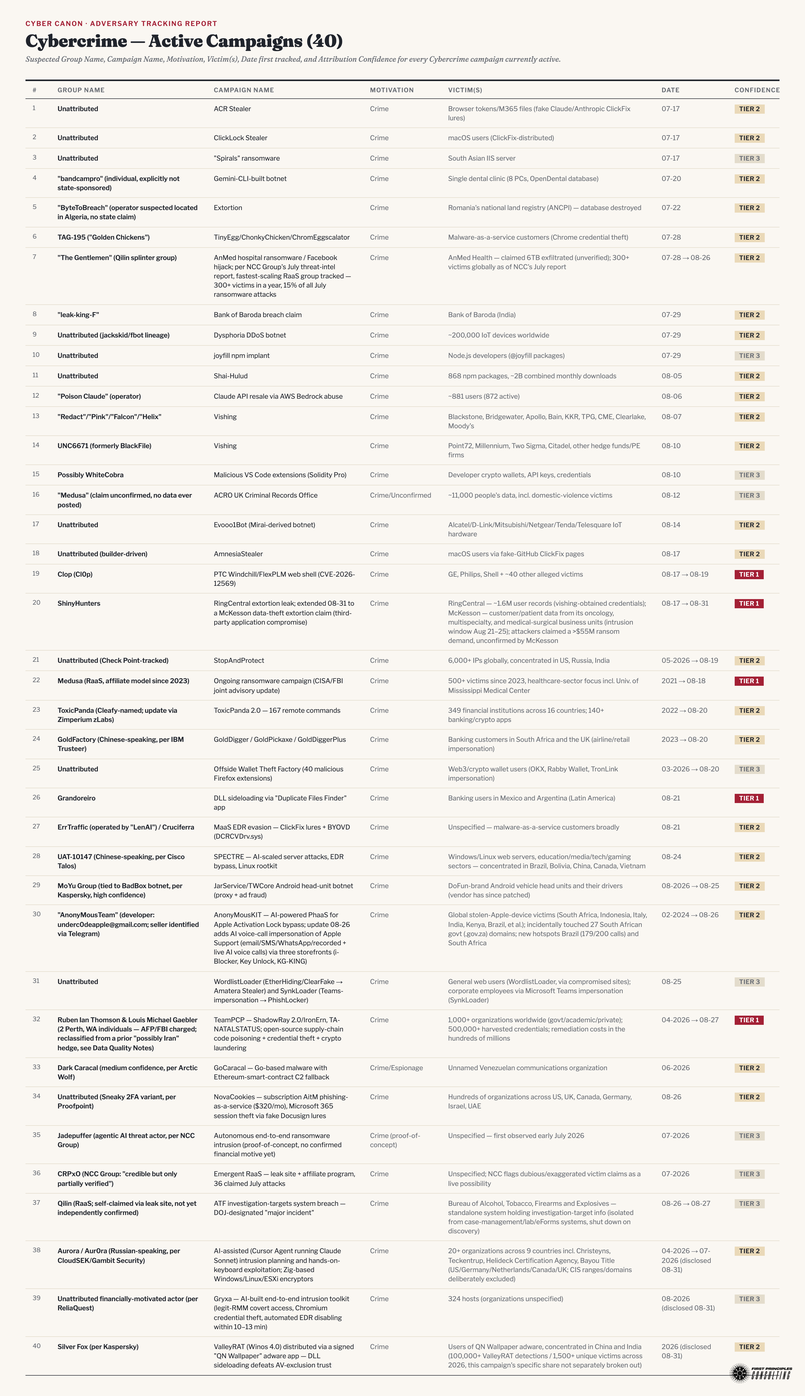
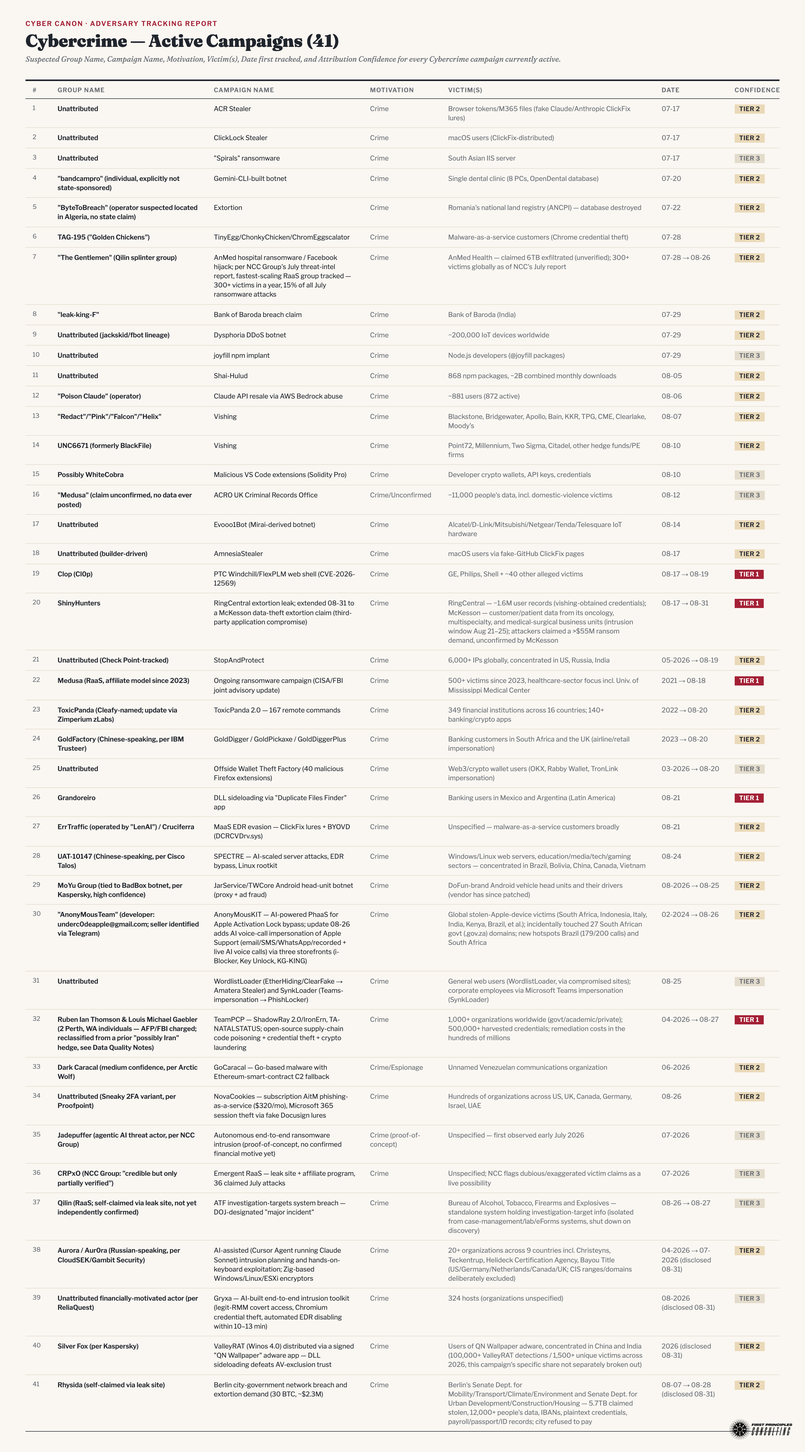
2026-09-01: Adversary Tracking Report — add Rhysida/Berlin row

diff --git a/reports/2026-09-01-adversary-tracking-report.md b/reports/2026-09-01-adversary-tracking-report.md
@@ -8,9 +8,9 @@
 
 ## At a Glance
 
-**123 campaigns tracked. 118 Active · 1 Dormant · 4 Concluded.**
+**124 campaigns tracked. 119 Active · 1 Dormant · 4 Concluded.**
 
-Active, by actor type: **Nation-State-Affiliated 53** (China 18 · Russia 11 · Iran 12 · North Korea 7 · Israel 4 · Ukraine 1) **· Cybercrime 40 · Hacktivism 4\* · Unclear 21**
+Active, by actor type: **Nation-State-Affiliated 53** (China 18 · Russia 11 · Iran 12 · North Korea 7 · Israel 4 · Ukraine 1) **· Cybercrime 41 · Hacktivism 4\* · Unclear 21**
 
 \*Row count, not group count — see note below. Two of Hacktivism's four rows are coalition aggregates (70+ pro-Iran groups, ~11 pro-Israel/allied groups), so the real scale of tracked hacktivist activity is 85+ groups, not 4.
 
@@ -70,15 +70,15 @@ Each subsection below is a single designed table image — Group Name, Campaign 
 
 **Sources:** 1. [Ukraine's Main Intelligence Directorate (HUR) — combined cyberattack + drone strikes on Wildberries](https://github.com/raceBannon99/The-Nexus/blob/main/reports/2026-08-24-daily-intelligence-report.md)
 
-### Non-State & Unclear (65)
+### Non-State & Unclear (66)
 
-#### Cybercrime (40)
+#### Cybercrime (41)
 
-*Rows 32–36 added 08-27: TeamPCP (reclassified in from the Iran table — see Data Quality Notes), GoCaracal/Dark Caracal, NovaCookies, Jadepuffer, and CRPxO. Rows 7 (The Gentlemen) and 30 (AnonyMousKIT) updated same day as continuations. Row 37 (Qilin/ATF) added 08-28. Rows 38–40 added 09-01: Aurora/Aur0ra, Gryxa, and Silver Fox/ValleyRAT. Row 20 (ShinyHunters) updated same day, extending the RingCentral row to a new McKesson extortion claim.*
+*Rows 32–36 added 08-27: TeamPCP (reclassified in from the Iran table — see Data Quality Notes), GoCaracal/Dark Caracal, NovaCookies, Jadepuffer, and CRPxO. Rows 7 (The Gentlemen) and 30 (AnonyMousKIT) updated same day as continuations. Row 37 (Qilin/ATF) added 08-28. Rows 38–41 added 09-01: Aurora/Aur0ra, Gryxa, Silver Fox/ValleyRAT, and Rhysida/Berlin. Row 20 (ShinyHunters) updated same day, extending the RingCentral row to a new McKesson extortion claim.*
 
 <img src="https://raw.githubusercontent.com/raceBannon99/The-Nexus/main/reports/images/2026-09-01-adversary-tracking-report/adversary-tracking-cybercrime-table.png">
 
-**Sources:** 1. [Unattributed — ACR Stealer](https://github.com/raceBannon99/The-Nexus/blob/main/reports/2026-07-17-daily-intelligence-report.md) · 2. [Unattributed — ClickLock Stealer](https://github.com/raceBannon99/The-Nexus/blob/main/reports/2026-07-17-daily-intelligence-report.md) · 3. [Unattributed — "Spirals" ransomware](https://github.com/raceBannon99/The-Nexus/blob/main/reports/2026-07-17-daily-intelligence-report.md) · 4. ["bandcampro" — Gemini-CLI-built botnet](https://github.com/raceBannon99/The-Nexus/blob/main/reports/2026-07-20-daily-intelligence-report.md) · 5. ["ByteToBreach" — extortion](https://github.com/raceBannon99/The-Nexus/blob/main/reports/2026-07-22-daily-intelligence-report.md) · 6. [TAG-195 ("Golden Chickens")](https://github.com/raceBannon99/The-Nexus/blob/main/reports/2026-07-28-daily-intelligence-report.md) · 7. ["The Gentlemen" — AnMed hospital ransomware](https://github.com/raceBannon99/The-Nexus/blob/main/reports/2026-07-28-daily-intelligence-report.md) · 8. ["leak-king-F" — Bank of Baroda breach claim](https://github.com/raceBannon99/The-Nexus/blob/main/reports/2026-07-29-daily-intelligence-report.md) · 9. [Unattributed — Dysphoria DDoS botnet](https://github.com/raceBannon99/The-Nexus/blob/main/reports/2026-07-29-daily-intelligence-report.md) · 10. [Unattributed — joyfill npm implant](https://github.com/raceBannon99/The-Nexus/blob/main/reports/2026-07-29-daily-intelligence-report.md) · 11. [Unattributed — Shai-Hulud](https://github.com/raceBannon99/The-Nexus/blob/main/reports/2026-08-05-daily-intelligence-report.md) · 12. ["Poison Claude" — Claude API resale via AWS Bedrock abuse](https://github.com/raceBannon99/The-Nexus/blob/main/reports/2026-08-06-daily-intelligence-report.md) · 13. ["Redact"/"Pink"/"Falcon"/"Helix" — vishing](https://github.com/raceBannon99/The-Nexus/blob/main/reports/2026-08-07-daily-intelligence-report.md) · 14. [UNC6671 (formerly BlackFile) — vishing](https://github.com/raceBannon99/The-Nexus/blob/main/reports/2026-08-10-daily-intelligence-report.md) · 15. [Possibly WhiteCobra — malicious VS Code extensions](https://github.com/raceBannon99/The-Nexus/blob/main/reports/2026-08-10-daily-intelligence-report.md) · 16. ["Medusa" (unconfirmed) — ACRO UK Criminal Records Office](https://github.com/raceBannon99/The-Nexus/blob/main/reports/2026-08-12-daily-intelligence-report.md) · 17. [Unattributed — Evooo1Bot](https://github.com/raceBannon99/The-Nexus/blob/main/reports/2026-08-14-daily-intelligence-report.md) · 18. [Unattributed (builder-driven) — AmnesiaStealer](https://github.com/raceBannon99/The-Nexus/blob/main/reports/2026-08-17-daily-intelligence-report.md) · 19. [Clop (Cl0p) — PTC Windchill/FlexPLM web shell](https://github.com/raceBannon99/The-Nexus/blob/main/reports/2026-08-19-daily-intelligence-report.md) · 20. [ShinyHunters — RingCentral extortion leak; extended 09-01 to McKesson](https://github.com/raceBannon99/The-Nexus/blob/main/reports/2026-08-19-daily-intelligence-report.md) · 21. [Unattributed (Check Point-tracked) — StopAndProtect](https://github.com/raceBannon99/The-Nexus/blob/main/reports/2026-08-19-daily-intelligence-report.md) · 22. [Medusa (RaaS) — CISA/FBI joint advisory update](https://github.com/raceBannon99/The-Nexus/blob/main/reports/2026-08-19-daily-intelligence-report.md) · 23. [ToxicPanda 2.0 — 167 remote commands](https://github.com/raceBannon99/The-Nexus/blob/main/reports/2026-08-20-daily-intelligence-report.md) · 24. [GoldFactory — GoldDigger/GoldPickaxe/GoldDiggerPlus](https://github.com/raceBannon99/The-Nexus/blob/main/reports/2026-08-20-daily-intelligence-report.md) · 25. [Unattributed — Offside Wallet Theft Factory (40 malicious Firefox extensions)](https://github.com/raceBannon99/The-Nexus/blob/main/reports/2026-08-20-daily-intelligence-report.md) · 26. [Grandoreiro — DLL sideloading campaign](https://github.com/raceBannon99/The-Nexus/blob/main/reports/2026-08-21-daily-intelligence-report.md) · 27. [ErrTraffic/Cruciferra — MaaS EDR evasion](https://github.com/raceBannon99/The-Nexus/blob/main/reports/2026-08-21-daily-intelligence-report.md) · 28. [UAT-10147 — SPECTRE AI-scaled server attacks](https://github.com/raceBannon99/The-Nexus/blob/main/reports/2026-08-24-daily-intelligence-report.md) · 29. [MoYu Group — BadBox Android head-unit botnet](https://github.com/raceBannon99/The-Nexus/blob/main/reports/2026-08-25-daily-intelligence-report.md) · 30. [AnonyMousKIT — AI-powered PhaaS for Apple Activation Lock bypass](https://github.com/raceBannon99/The-Nexus/blob/main/reports/2026-08-25-daily-intelligence-report.md) · 31. [WordlistLoader/SynkLoader — loader ecosystem](https://github.com/raceBannon99/The-Nexus/blob/main/reports/2026-08-25-daily-intelligence-report.md) · 32. [TeamPCP (reclassified from Iran) — 2 Perth, WA individuals charged](https://github.com/raceBannon99/The-Nexus/blob/main/reports/2026-08-27-daily-intelligence-report.md) · 33. [Dark Caracal — GoCaracal](https://github.com/raceBannon99/The-Nexus/blob/main/reports/2026-08-27-daily-intelligence-report.md) · 34. [NovaCookies — AitM phishing-as-a-service](https://github.com/raceBannon99/The-Nexus/blob/main/reports/2026-08-27-daily-intelligence-report.md) · 35. [Jadepuffer — agentic AI ransomware actor](https://github.com/raceBannon99/The-Nexus/blob/main/reports/2026-08-27-daily-intelligence-report.md) · 36. [CRPxO — emergent RaaS group](https://github.com/raceBannon99/The-Nexus/blob/main/reports/2026-08-27-daily-intelligence-report.md) · 37. [Qilin — ATF investigation-targets system breach](https://github.com/raceBannon99/The-Nexus/blob/main/reports/2026-08-28-daily-intelligence-report.md) · 38. [Aurora/Aur0ra — AI-assisted ransomware intrusions](https://github.com/raceBannon99/The-Nexus/blob/main/reports/2026-09-01-daily-intelligence-report.md) · 39. [Gryxa — AI-built end-to-end intrusion toolkit](https://github.com/raceBannon99/The-Nexus/blob/main/reports/2026-09-01-daily-intelligence-report.md) · 40. [Silver Fox — ValleyRAT via signed QN Wallpaper adware](https://github.com/raceBannon99/The-Nexus/blob/main/reports/2026-09-01-daily-intelligence-report.md)
+**Sources:** 1. [Unattributed — ACR Stealer](https://github.com/raceBannon99/The-Nexus/blob/main/reports/2026-07-17-daily-intelligence-report.md) · 2. [Unattributed — ClickLock Stealer](https://github.com/raceBannon99/The-Nexus/blob/main/reports/2026-07-17-daily-intelligence-report.md) · 3. [Unattributed — "Spirals" ransomware](https://github.com/raceBannon99/The-Nexus/blob/main/reports/2026-07-17-daily-intelligence-report.md) · 4. ["bandcampro" — Gemini-CLI-built botnet](https://github.com/raceBannon99/The-Nexus/blob/main/reports/2026-07-20-daily-intelligence-report.md) · 5. ["ByteToBreach" — extortion](https://github.com/raceBannon99/The-Nexus/blob/main/reports/2026-07-22-daily-intelligence-report.md) · 6. [TAG-195 ("Golden Chickens")](https://github.com/raceBannon99/The-Nexus/blob/main/reports/2026-07-28-daily-intelligence-report.md) · 7. ["The Gentlemen" — AnMed hospital ransomware](https://github.com/raceBannon99/The-Nexus/blob/main/reports/2026-07-28-daily-intelligence-report.md) · 8. ["leak-king-F" — Bank of Baroda breach claim](https://github.com/raceBannon99/The-Nexus/blob/main/reports/2026-07-29-daily-intelligence-report.md) · 9. [Unattributed — Dysphoria DDoS botnet](https://github.com/raceBannon99/The-Nexus/blob/main/reports/2026-07-29-daily-intelligence-report.md) · 10. [Unattributed — joyfill npm implant](https://github.com/raceBannon99/The-Nexus/blob/main/reports/2026-07-29-daily-intelligence-report.md) · 11. [Unattributed — Shai-Hulud](https://github.com/raceBannon99/The-Nexus/blob/main/reports/2026-08-05-daily-intelligence-report.md) · 12. ["Poison Claude" — Claude API resale via AWS Bedrock abuse](https://github.com/raceBannon99/The-Nexus/blob/main/reports/2026-08-06-daily-intelligence-report.md) · 13. ["Redact"/"Pink"/"Falcon"/"Helix" — vishing](https://github.com/raceBannon99/The-Nexus/blob/main/reports/2026-08-07-daily-intelligence-report.md) · 14. [UNC6671 (formerly BlackFile) — vishing](https://github.com/raceBannon99/The-Nexus/blob/main/reports/2026-08-10-daily-intelligence-report.md) · 15. [Possibly WhiteCobra — malicious VS Code extensions](https://github.com/raceBannon99/The-Nexus/blob/main/reports/2026-08-10-daily-intelligence-report.md) · 16. ["Medusa" (unconfirmed) — ACRO UK Criminal Records Office](https://github.com/raceBannon99/The-Nexus/blob/main/reports/2026-08-12-daily-intelligence-report.md) · 17. [Unattributed — Evooo1Bot](https://github.com/raceBannon99/The-Nexus/blob/main/reports/2026-08-14-daily-intelligence-report.md) · 18. [Unattributed (builder-driven) — AmnesiaStealer](https://github.com/raceBannon99/The-Nexus/blob/main/reports/2026-08-17-daily-intelligence-report.md) · 19. [Clop (Cl0p) — PTC Windchill/FlexPLM web shell](https://github.com/raceBannon99/The-Nexus/blob/main/reports/2026-08-19-daily-intelligence-report.md) · 20. [ShinyHunters — RingCentral extortion leak; extended 09-01 to McKesson](https://github.com/raceBannon99/The-Nexus/blob/main/reports/2026-08-19-daily-intelligence-report.md) · 21. [Unattributed (Check Point-tracked) — StopAndProtect](https://github.com/raceBannon99/The-Nexus/blob/main/reports/2026-08-19-daily-intelligence-report.md) · 22. [Medusa (RaaS) — CISA/FBI joint advisory update](https://github.com/raceBannon99/The-Nexus/blob/main/reports/2026-08-19-daily-intelligence-report.md) · 23. [ToxicPanda 2.0 — 167 remote commands](https://github.com/raceBannon99/The-Nexus/blob/main/reports/2026-08-20-daily-intelligence-report.md) · 24. [GoldFactory — GoldDigger/GoldPickaxe/GoldDiggerPlus](https://github.com/raceBannon99/The-Nexus/blob/main/reports/2026-08-20-daily-intelligence-report.md) · 25. [Unattributed — Offside Wallet Theft Factory (40 malicious Firefox extensions)](https://github.com/raceBannon99/The-Nexus/blob/main/reports/2026-08-20-daily-intelligence-report.md) · 26. [Grandoreiro — DLL sideloading campaign](https://github.com/raceBannon99/The-Nexus/blob/main/reports/2026-08-21-daily-intelligence-report.md) · 27. [ErrTraffic/Cruciferra — MaaS EDR evasion](https://github.com/raceBannon99/The-Nexus/blob/main/reports/2026-08-21-daily-intelligence-report.md) · 28. [UAT-10147 — SPECTRE AI-scaled server attacks](https://github.com/raceBannon99/The-Nexus/blob/main/reports/2026-08-24-daily-intelligence-report.md) · 29. [MoYu Group — BadBox Android head-unit botnet](https://github.com/raceBannon99/The-Nexus/blob/main/reports/2026-08-25-daily-intelligence-report.md) · 30. [AnonyMousKIT — AI-powered PhaaS for Apple Activation Lock bypass](https://github.com/raceBannon99/The-Nexus/blob/main/reports/2026-08-25-daily-intelligence-report.md) · 31. [WordlistLoader/SynkLoader — loader ecosystem](https://github.com/raceBannon99/The-Nexus/blob/main/reports/2026-08-25-daily-intelligence-report.md) · 32. [TeamPCP (reclassified from Iran) — 2 Perth, WA individuals charged](https://github.com/raceBannon99/The-Nexus/blob/main/reports/2026-08-27-daily-intelligence-report.md) · 33. [Dark Caracal — GoCaracal](https://github.com/raceBannon99/The-Nexus/blob/main/reports/2026-08-27-daily-intelligence-report.md) · 34. [NovaCookies — AitM phishing-as-a-service](https://github.com/raceBannon99/The-Nexus/blob/main/reports/2026-08-27-daily-intelligence-report.md) · 35. [Jadepuffer — agentic AI ransomware actor](https://github.com/raceBannon99/The-Nexus/blob/main/reports/2026-08-27-daily-intelligence-report.md) · 36. [CRPxO — emergent RaaS group](https://github.com/raceBannon99/The-Nexus/blob/main/reports/2026-08-27-daily-intelligence-report.md) · 37. [Qilin — ATF investigation-targets system breach](https://github.com/raceBannon99/The-Nexus/blob/main/reports/2026-08-28-daily-intelligence-report.md) · 38. [Aurora/Aur0ra — AI-assisted ransomware intrusions](https://github.com/raceBannon99/The-Nexus/blob/main/reports/2026-09-01-daily-intelligence-report.md) · 39. [Gryxa — AI-built end-to-end intrusion toolkit](https://github.com/raceBannon99/The-Nexus/blob/main/reports/2026-09-01-daily-intelligence-report.md) · 40. [Silver Fox — ValleyRAT via signed QN Wallpaper adware](https://github.com/raceBannon99/The-Nexus/blob/main/reports/2026-09-01-daily-intelligence-report.md) · 41. [Rhysida — Berlin city-government breach and extortion](https://github.com/raceBannon99/The-Nexus/blob/main/reports/2026-09-01-daily-intelligence-report.md)
 
 #### Hacktivism (4 rows tracked — 85+ individual groups)
 
@@ -113,7 +113,7 @@ Each subsection below is a single designed table image — Group Name, Campaign 
 
 ## Data Quality Notes
 
-- **2026-09-01 daily-report update: 8 new rows added (1 China, 1 Russia, 3 Cybercrime, 3 Unclear), 2 continuations updated.** This run covers a two-day gap (no daily report ran 08-30 or 08-31), so several rows are sourced to items disclosed on those dates and forward-pulled today. China gains a row for **Fire Ant**, a China-nexus actor (Sygnia) that expanded beyond its prior VMware-hypervisor targeting into Cisco IOS XR routers, TACACS+ authentication servers, and Linux management hosts — a custom "TacTap" credential-theft injector and a "BridgeAgent" Linux backdoor masquerading as a Zabbix agent; Sygnia flags a suspected but not conclusively confirmed overlap with UNC3886, and explicitly found no technical overlap with Salt Typhoon or Volt Typhoon, so filed Tier 2 rather than folded into either existing China row. Russia gains a row for **UAC-0099**, a CERT-UA/ESET-tracked, Russia-aligned actor observed embedding a fake "I want to make a nuclear weapon" prompt (dubbed **GuardBreaker**) inside a malicious VBS script specifically to trip AI-based malware scanners' safety guardrails and block automated analysis — a novel anti-analysis technique, not a novel campaign in itself; Tier 2 on the "aligned" hedge. Cybercrime gains three rows: **Aurora/Aur0ra**, a Russian-speaking ransomware group (CloudSEK/Gambit Security) whose operators used Cursor Agent (running Claude Sonnet) to plan and partially execute intrusions against 20+ organizations in 9 countries, deliberately excluding CIS ranges/domains from targeting; **Gryxa**, an unattributed financially-motivated actor ReliaQuest calls the first observed case of an AI-built toolkit covering an entire intrusion end-to-end (RMM abuse, Chromium credential theft, automated EDR disabling) against 324 hosts; and **Silver Fox**'s ValleyRAT (Winos 4.0) distribution via a signed "QN Wallpaper" adware app, which defeats users' own AV-exclusion trust through DLL sideloading inside the signed process (Kaspersky). Unclear gains three rows: **TerminalFix**, a Microsoft-disclosed ClickFix variant using fake Cloudflare CAPTCHA pages and Windows Terminal/PowerShell (rather than the traditional Run dialog) to deliver a reverse-tunnel implant, actor unattributed; a **METR API-key theft** in which an opportunistic actor found a publicly exposed EC2 instance and an authentication fail-open bug, consuming roughly $600K in AI credits before METR's own monitoring caught it; and **mass exploitation of CVE-2026-0768 (Langflow) and CVE-2026-66066 "KindaRails2Shell" (Ruby on Rails)**, tracked by VulnCheck, filed Unclear rather than under any nation-state column since VulnCheck's observation that Langflow-targeting traffic "primarily originates from Russia" is an infrastructure/geolocation note, not a formal attribution. Two continuations, not new rows: North Korea's existing "DPRK fraudulent remote-worker scheme" row (#7) was extended with Huntress's finding that the scheme has expanded beyond IT into healthcare and sales/marketing roles, plus a related Recorded Future-tracked PurpleDelta cluster that applied to 1,100+ companies using 22 fabricated, partly AI-generated personas; and Cybercrime's existing ShinyHunters row (#20, RingCentral) was extended to a new McKesson data-theft extortion claim (third-party application compromise affecting oncology/multispecialty/medical-surgical customer data, intrusion window Aug 21–25, attackers claiming a >$55M ransom demand McKesson has not confirmed). **Two stories checked and explicitly not added as rows or continuations**: "Server Killers"' Norway DDoS claim (already fully tracked as Hacktivism row 4 as of 08-28; today's Risky Business Bulletin mention adds no new fact) and the Hanover Institute/Piro Inc. Israel row (already fully tracked as Israel row 4 as of 08-28; today's mention is pure recirculation). Two DeFi/crypto exploits (Moonwell, $8.7M; Tectonic, $6M — both price-manipulation attacks with no named actor) and a Kansas ATM-jackpotting guilty-plea case were considered and **not** given rows: the DeFi incidents are isolated financial exploits without an identifiable ongoing actor or campaign to track going forward, and the ATM case is a law-enforcement disposition of already-known jackpotting activity (reported in the daily digest body under Law Enforcement Disruption) rather than a new or continuing campaign — consistent with the Rules section's standing exclusion of items with no identifiable adversary or campaign. Only the five directly affected category tables (China, Russia, Cybercrime, Unclear, North Korea) and the overview heatmap were regenerated; Iran, Israel, Ukraine, and Hacktivism tables are unchanged from 08-28/08-29.
+- **2026-09-01 daily-report update: 9 new rows added (1 China, 1 Russia, 4 Cybercrime, 3 Unclear), 2 continuations updated.** This run covers a two-day gap (no daily report ran 08-30 or 08-31), so several rows are sourced to items disclosed on those dates and forward-pulled today. China gains a row for **Fire Ant**, a China-nexus actor (Sygnia) that expanded beyond its prior VMware-hypervisor targeting into Cisco IOS XR routers, TACACS+ authentication servers, and Linux management hosts — a custom "TacTap" credential-theft injector and a "BridgeAgent" Linux backdoor masquerading as a Zabbix agent; Sygnia flags a suspected but not conclusively confirmed overlap with UNC3886, and explicitly found no technical overlap with Salt Typhoon or Volt Typhoon, so filed Tier 2 rather than folded into either existing China row. Russia gains a row for **UAC-0099**, a CERT-UA/ESET-tracked, Russia-aligned actor observed embedding a fake "I want to make a nuclear weapon" prompt (dubbed **GuardBreaker**) inside a malicious VBS script specifically to trip AI-based malware scanners' safety guardrails and block automated analysis — a novel anti-analysis technique, not a novel campaign in itself; Tier 2 on the "aligned" hedge. Cybercrime gains three rows: **Aurora/Aur0ra**, a Russian-speaking ransomware group (CloudSEK/Gambit Security) whose operators used Cursor Agent (running Claude Sonnet) to plan and partially execute intrusions against 20+ organizations in 9 countries, deliberately excluding CIS ranges/domains from targeting; **Gryxa**, an unattributed financially-motivated actor ReliaQuest calls the first observed case of an AI-built toolkit covering an entire intrusion end-to-end (RMM abuse, Chromium credential theft, automated EDR disabling) against 324 hosts; **Silver Fox**'s ValleyRAT (Winos 4.0) distribution via a signed "QN Wallpaper" adware app, which defeats users' own AV-exclusion trust through DLL sideloading inside the signed process (Kaspersky); and **Rhysida**, an established ransomware/extortion group whose self-claimed breach of two Berlin city-government departments (Mobility/Transport/Climate/Environment; Urban Development/Construction/Housing) exposed 5.7TB of claimed data including IBANs, plaintext credentials, and passport/ID records for 12,000+ people — Berlin's government confirmed the breach and publicly refused Rhysida's 30 BTC (~$2.3M) demand (SecurityWeek). Unclear gains three rows: **TerminalFix**, a Microsoft-disclosed ClickFix variant using fake Cloudflare CAPTCHA pages and Windows Terminal/PowerShell (rather than the traditional Run dialog) to deliver a reverse-tunnel implant, actor unattributed; a **METR API-key theft** in which an opportunistic actor found a publicly exposed EC2 instance and an authentication fail-open bug, consuming roughly $600K in AI credits before METR's own monitoring caught it; and **mass exploitation of CVE-2026-0768 (Langflow) and CVE-2026-66066 "KindaRails2Shell" (Ruby on Rails)**, tracked by VulnCheck, filed Unclear rather than under any nation-state column since VulnCheck's observation that Langflow-targeting traffic "primarily originates from Russia" is an infrastructure/geolocation note, not a formal attribution. Two continuations, not new rows: North Korea's existing "DPRK fraudulent remote-worker scheme" row (#7) was extended with Huntress's finding that the scheme has expanded beyond IT into healthcare and sales/marketing roles, plus a related Recorded Future-tracked PurpleDelta cluster that applied to 1,100+ companies using 22 fabricated, partly AI-generated personas; and Cybercrime's existing ShinyHunters row (#20, RingCentral) was extended to a new McKesson data-theft extortion claim (third-party application compromise affecting oncology/multispecialty/medical-surgical customer data, intrusion window Aug 21–25, attackers claiming a >$55M ransom demand McKesson has not confirmed). **Two stories checked and explicitly not added as rows or continuations**: "Server Killers"' Norway DDoS claim (already fully tracked as Hacktivism row 4 as of 08-28; today's Risky Business Bulletin mention adds no new fact) and the Hanover Institute/Piro Inc. Israel row (already fully tracked as Israel row 4 as of 08-28; today's mention is pure recirculation). Two DeFi/crypto exploits (Moonwell, $8.7M; Tectonic, $6M — both price-manipulation attacks with no named actor) and a Kansas ATM-jackpotting guilty-plea case were considered and **not** given rows: the DeFi incidents are isolated financial exploits without an identifiable ongoing actor or campaign to track going forward, and the ATM case is a law-enforcement disposition of already-known jackpotting activity (reported in the daily digest body under Law Enforcement Disruption) rather than a new or continuing campaign — consistent with the Rules section's standing exclusion of items with no identifiable adversary or campaign. Only the five directly affected category tables (China, Russia, Cybercrime, Unclear, North Korea) and the overview heatmap were regenerated; Iran, Israel, Ukraine, and Hacktivism tables are unchanged from 08-28/08-29.
 - **2026-08-29 daily-report update: 1 row corrected, no new rows.** The DOJ issued a same-day correction (via Reuters) to its own 08-26 announcement of the QTFY takedown: the original statement described the Federal Reserve, DOJ, NASA, US Senate, DOE, HHS, and NIH as victims of the campaign; the corrected statement clarifies that "all were targeted but only some were compromised." The FBI affidavit itself confirms successful intrusions only at three DOE National Labs, NIH, an HHS agency, and a security device manufacturer — NASA's breach attempt failed due to prior patching, and the Senate's March 2026 access attempt was also unsuccessful. Federal Reserve and DOJ's own status is not addressed in the correction, so the row now flags both as "unclear post-correction" rather than assuming either outcome. This is a narrowing of the confirmed-compromise scope, not a change to attribution confidence (still Tier 1 — the correction concerns victim/scope facts, not who's responsible) or Actor Type. Only the China table's row 17 and its rendered image were regenerated; the overview heatmap was not touched since no actor-type or tier cell count shifted.
 - **2026-08-29 daily-report update, curation note: three stories considered and excluded as pure recirculation of already-published content**, each traced to a specific prior report via the `nexus-search-reports.sh` grep: Trump's Executive Order 14420 banning foreign bulk-power equipment (Cyberwire Issue 165 top story; already covered in full in the 08-28 report under Nation-State Cyber Policy & Law), the Manchester Airports Group breach (The Record's Aug 27 featured story; already covered in full 08-28 under Data Breaches), and CISA's 100+ water-system attacks attributed to Iran (recirculated via Wired's weekly roundup; already covered in full 08-28 as an Adversary Tracking Report update, Iran row 7). A fourth item — PaperCut's zero-day — was judged a thin update (the initial patch didn't fully remediate the flaw; a corrected patch shipped 08-28 with Huntress/watchTwr) rather than a fresh disclosure, since the underlying zero-day was already reported 08-28; not run as a new item.
 - **2026-08-28 daily-report update: 1 row updated, 4 new rows added (1 each in Russia, Israel, Cybercrime, Hacktivism).** Iran's existing OT/ICS-targeting row (#7, first tracked 07-23 with only vague "Rockwell/Allen-Bradley, Schneider Electric, Siemens PLCs" targeting and no attribution) was updated, not duplicated: CISA publicly attributed a July 2026 campaign to Iranian threat actors — 100+ internet-exposed water/wastewater systems targeted via cellular-modem-connected PLCs across 12+ states (Minnesota, Michigan, South Dakota, Georgia, New Jersey, and Alabama confirmed), no significant disruption caused — corroborated independently via SecurityWeek and N2K Cyberwire's Issue 164. Russia gains a row for APT28 (aka Fancy Bear/Forest Blizzard, tracked as BlueDelta by Recorded Future)'s HOOKEDGE backdoor, targeting government and diplomatic organizations in Romania, Spain, and Türkiye via diplomatic-themed macro documents (campaign ran September 2025–April 2026, disclosed today by The Hacker News); Tier 2, since the researchers' own attribution to APT28 is "moderate confidence" based on code/tradecraft overlap with a prior backdoor (HEADLACE), not a harder government or multi-vendor consensus attribution. Israel gains a row for a state-funded AI-influence operation: Piro Inc., a New York media firm registered under FARA as an Israeli-government foreign agent (~$900K received), built a fake "Hanover Institute for Public Policy" think tank that published 124 reports (560,000+ words) in nine days (Aug 6–14) styled as neutral academic research on Gaza-war topics (genocide/war-crimes/torture/starvation allegations), aimed at influencing AI chatbot training data — no legal entity, address, staff, or bylines behind the front (The Guardian's original reporting; Guardian's own site blocks direct fetch/search, so sourced here via corroborating outlets and the DOJ's own public FARA filings). Filed Tier 1 given the FARA registration is a matter of public record, not just a journalistic claim — same standard applied to the existing Israel-table row citing WSJ reporting on government-funded AI-texting. Cybercrime gains a row for a Qilin ransomware-gang leak-site claim against the ATF: the DOJ confirmed a breach of a standalone system holding investigation-target information (isolated from case-management/lab/eForms systems, shut down on discovery) and designated it a "major incident," but has not itself confirmed Qilin as the perpetrator — filed Tier 3 (self-claimed, unconfirmed) rather than Tier 2, consistent with how the table's existing unconfirmed-claim rows (e.g. "Medusa"/ACRO) are tiered. Hacktivism gains a fourth row: "Server Killers," a self-branded pro-Russian group, claimed via Telegram a three-day DDoS campaign against Norway's Digitalisation Agency (Digdir) — the same incident already covered in the 08-26 report as an unattributed attack — declaring "cyber war" after Norway renewed security cooperation with Ukraine on 08-23; Norwegian officials had not confirmed the claim as of publication, so filed Tier 3 and as an update/attribution-add to the already-covered incident rather than a wholly new one. Two stories considered and explicitly not added as rows: a Bitkom survey finding 52%/49%/9% of German companies attribute attacks to China/Russia/Iran respectively (an aggregate statistical trend, not a specific named campaign — reported in the daily digest body under Adversary Playbook instead) and a Finnish appeals court reviving the 2024 Eagle S Baltic-cable-sabotage prosecution (a legal-proceedings update to an already-largely-historical incident with no existing table row — reported in the digest body under Law Enforcement Disruption/Critical Infrastructure Attacks instead). **Also fixed a latent bug, not a data change:** `build_tables.py`'s per-category row counts were hardcoded integers that had already drifted out of sync at least twice (see the 08-27 and 08-25 entries below) — converted to `len(row_list)` so the count can no longer drift from the actual row data going forward.
